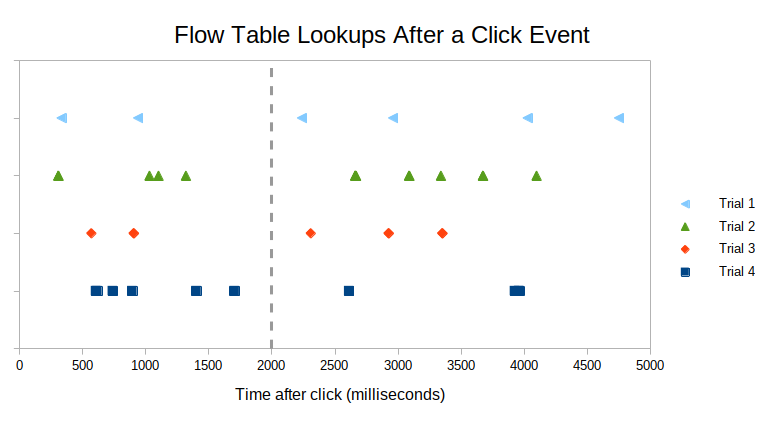
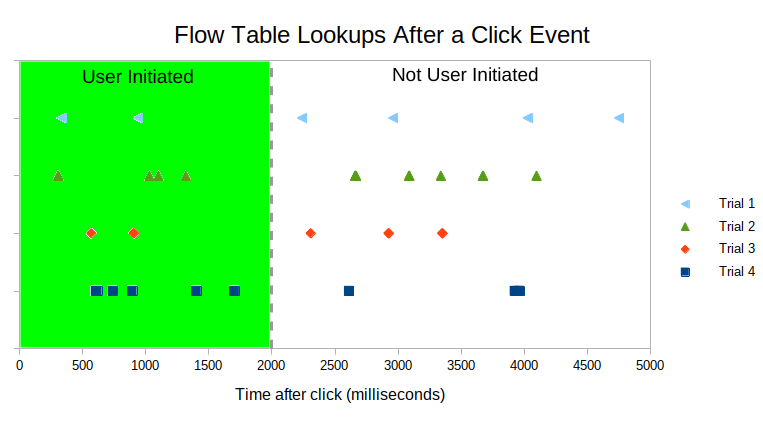
complete practical results section

Changed region(s): [[0.0, 0.1229, 0.3617, 0.8298], [0.5125, 0.1537, 0.7235, 0.2151]]

diff --git a/4_evaluation.tex b/4_evaluation.tex
@@ -14,45 +14,66 @@ procedures used for each of these experiments and their results.
 The goal of this experiment is to determine whether \textsc{Appjudicator} can
 successfully distinguish between network flows that were specifically initiated
 by a human user and flows generated automatically by an app or the Android
-system.
+system. We attempt to justify the parameters used for defining a flow as ``user
+initiated.''
 
 \subsubsection{Experimental Setup}
 \label{sec:experimental-setup}
 
-For this experiment, we tested the app both in an emulator an on a physical
-Android device. The emulator test was performed on a virtual Google Pixel 4,
-with API level 30 (the newest available). Physical tests were performed on a
-real Google Pixel 3 phone running Android 11 with API level 30.
+This test was performed on a virtual Google Pixel 4, with API level 30 (the
+newest available). We perform actions on the phone to simulate real life use
+cases with \textsc{Appjudicator}, including browsing the web in Chrome,
+exploring an app store (F-Droid), and playing a game with advertisements. We use
+our app's logging to record whether each flow is considered ``user initiated,''
+along with the timing of UI interactions and flow table lookups.
 
-In both cases we used Google's UI Automator framework~\cite{uiautomator2020} to
-automate the testing process. This tool is designed for automating UI tests as
-part of an app development cycle, and provides features that make it ideal for
-our experiments. The UI Automator can simulate various kinds of UI interactions,
-including clicks, swipes, pressing hardware buttons, and even changing the
-device's orientation. It can also perform actions in multiple apps in a single
-run.
-
-We use UI Automator to simulate a series of real life use cases that would lead
-to a network request being made while \textsc{Appjudicator}'s accessibility
-service is enabled. Then we simply check service's logs to see which flows it
-marked as likely user-initiated.
+To evaluate the effectiveness of our UI element system for identifying UI
+elements (described in Section~\ref{sec:identifying-ui-elements}), we record
+the proportion of accessibility events in our sampling period came from sources
+with a unique resource ID.
 
 \subsubsection{Results}
 \label{sec:practical-results}
 
-\hl{TODO: This section will include results of the above test.}
+\textsc{Appjudicator} was successful in identifying 100\% of new flows that
+occurred within two seconds of a UI interaction as user initiated. This raises
+the question of how effective this two second cutoff is. Based on our
+experience, two seconds seems to be generous enough to allow all flows
+associated with the UI interaction to be triggered, without being so lenient
+that unrelated flows are also allowed.
+
+Professional sources generally support this reasoning. Google's developer blog
+recommends two seconds of total page page load time is ``the threshold for
+ecommerce site `acceptability.'"~\cite{ohye2010} Search engine optimization firm
+Semrush writes ``Serve your customers with the page load time they need, a good
+goal being 1--2 seconds.''~\cite{bird2020}
+
+Figure~\ref{fig:lookups-after-click} shows illustrates this cutoff. It shows
+four typical page loads in Chrome, with each point in the plot representing a
+new flow made by Chrome. The accessibility event that initiated the page load
+(clicking on a link) occurs at time 0. The dashed gray line shows the two second
+cutoff. All the flows that occurred before this cutoff, within the green shaded
+area, are considered to be user initiated, while flows that occurred after the
+cutoff are not. These flows are likely the result of asynchronous JavaScript
+network calls initiated by the page, not directly by user action.
 
 \begin{figure}[h]
     \centering
 	\includegraphics[width=\textwidth]{lookups-after-click.png}
 	\caption{The delay between a click event and the new flows that it
 		initiates. The dashed vertical line shows the two second cutoff: flows
-		before this line are considered to be associated with the click event.}
+		before this line (in the green area) are considered to be associated
+		with the click event.}
 	\label{fig:lookups-after-click}
 \end{figure}
 
-\hl{TODO: Include results and a chart showing what percentage of UI events in
-	common apps have a resource ID and how many need a UI hierarchy selector.}
+In our trial we found that approximately 85\% of accessibility events had a
+source element with a unique resource ID. Even dynamically generated UI elements
+often have resource IDs. For example, links in webpages are given IDs generated
+by Chrome. This is good news for our system, because resource IDs are the
+easiest and most effective way to uniquely identify UI elements form
+accessibility events. Still, this figure may vary in poorly made apps in which
+developers do not give every element an ID.
 
 \subsection{Performance Evaluation}
 \label{sec:performance-evaluation}
